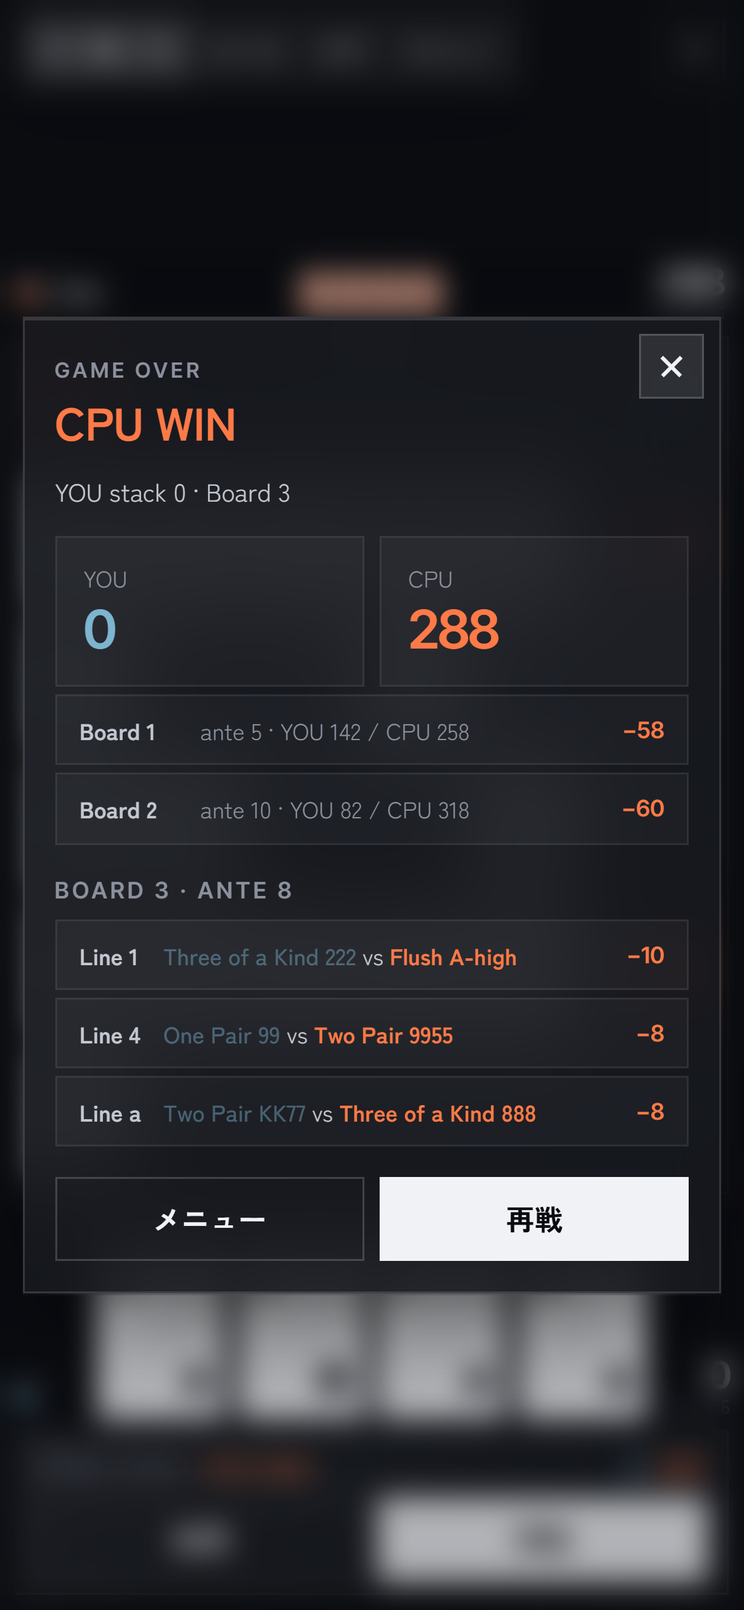
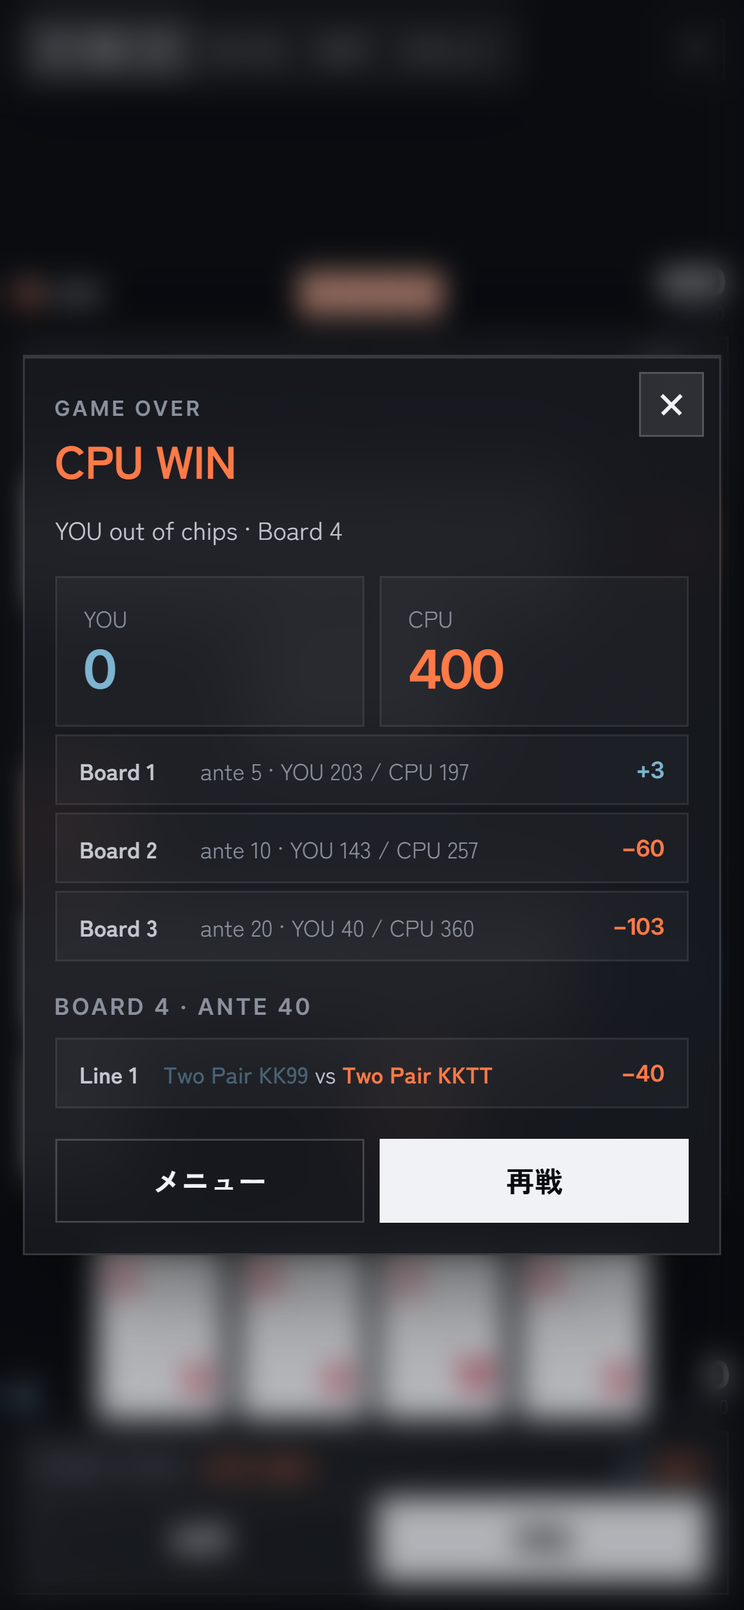
feat(rules): チップ（手元とpot）がすべてなくなったら負け。anteが足りなければLine 1から順に満額ずつ置いてall-in
- 手元が0でもpotにチップがあればall-inとして続く（そのlineはbettingなしでshowdown）。チップが尽きたらその場で終局
- 均等配分（anteを短い方÷10に下げる）は盤面数が長くなりすぎた（中央値4・最長27）ので比較用の anteMode 'even' に
- 仕様書・ルールのモーダル・ガイド09、X画像4枚目とAltテキストを更新

diff --git a/src/engine.js b/src/engine.js
@@ -47,7 +47,7 @@ function shuffle(a){for(let i=a.length-1;i>0;i--){const j=Math.floor(rnd()*(i+1)
 // the 10 lines on the first board, doubled every board; No Limit (all-in up to what the opponent can cover; limit 'pot' =
 // the former Pot Limit, kept for comparisons); NL min raise (at least the ante, or the largest raise so far on that line);
 // the first player is random, then alternates every board.
-const RULES=Object.freeze({stack:200,ante:5,limit:'none',minRaiseMode:'last',first:'random'});
+const RULES=Object.freeze({stack:200,ante:5,anteMode:'fill',limit:'none',minRaiseMode:'last',first:'random'});
 function newGame(cfg){
   const g={cfg:Object.assign({},RULES,cfg),log:[],popups:[],ver:0,over:false,winner:null};
   g.stacks=[g.cfg.stack,g.cfg.stack];g.boardNo=0;g.boards=[];g.handGen=0;
@@ -58,15 +58,21 @@ function newGame(cfg){
 }
 // the ante of board n: the first ante doubled every board, lowered to what the short stack can post on all 10 lines
 const anteFor=(g,n)=>Math.min(g.cfg.ante*2**(n-1),Math.floor(Math.min(...g.stacks)/10));
+// anteMode 'fill' (the rule, 2026-10-03 さつき): a short stack posts the full ante line by line from Line 1 as far as its chips
+// go (all-in, nothing kept back); the other player matches line by line, so lines beyond that start with no pot.
+// anteMode 'even' (comparison): the ante drops to the short stack ÷ 10 on every line, the remainder kept back
 function startBoard(g,first){
-  const n=g.boardNo+1,a=anteFor(g,n);
+  const n=g.boardNo+1,fill=g.cfg.anteMode==='fill',a=fill?g.cfg.ante*2**(n-1):anteFor(g,n);
   g.boardNo=n;g.ante=a;g.minRaise=a; // ミニマムレイズ幅の下限＝その盤面のアンティ
   g.boardStart=[...g.stacks];
   g.deck=shuffle([...Array(52).keys()]);
   g.board=Array(25).fill(null);
   g.hands=[[g.deck.pop(),g.deck.pop(),g.deck.pop(),g.deck.pop()],[g.deck.pop(),g.deck.pop(),g.deck.pop(),g.deck.pop()]];
-  g.contrib=Array.from({length:10},()=>[a,a]);
-  g.stacks=g.stacks.map(s=>s-10*a);
+  if(fill){
+    const per=g.stacks.map(s=>Array.from({length:10},()=>{const x=Math.min(a,s);s-=x;return x}));
+    g.contrib=per[0].map((x,L)=>{const m=Math.min(x,per[1][L]);return[m,m]});
+    const paid=g.contrib.reduce((t,c)=>t+c[0],0);g.stacks=g.stacks.map(v=>v-paid);
+  }else{g.contrib=Array.from({length:10},()=>[a,a]);g.stacks=g.stacks.map(v=>v-10*a)}
   g.done=Array(10).fill(null);
   g.first=first;g.lastDraw=[null,null];g.turn=first;g.phase='place';g.queue=[];g.pendingSd=[];g.betting=null;g.lastCell=null;g.handGen++;g.lastInc=Array(10).fill(0);g.hist=Array.from({length:10},()=>[]);
   addLog(g,`BOARD ${n} · ante ${a}×10 · 先手 {${first}}`,'sys',{0:` · YOU ${g.hands[0].map(cardStr).join('')}`,1:` · YOU ${g.hands[1].map(cardStr).join('')}`});
@@ -77,7 +83,10 @@ function migrate(g){if(g.boardNo===undefined){g.boardNo=1;g.boards=[];g.ante=g.c
 function endBoard(g){
   const n=g.boardNo,net=[0,1].map(p=>g.stacks[p]-g.boardStart[p]);
   g.boards.push({n,ante:g.ante,net,stacks:[...g.stacks]});
-  const next=anteFor(g,n+1);
+  // out of chips (every line is decided, so the stack is all a player has): that player loses (2026-10-03 さつき)
+  const out=[0,1].filter(p=>g.stacks[p]===0);
+  if(out.length)return finish(g,out.length===1?out[0]:null,'chips');
+  const next=g.cfg.anteMode==='fill'?g.cfg.ante*2**n:anteFor(g,n+1);
   if(next<1)return finish(g,g.stacks[0]<g.stacks[1]?0:1,'ante');
   g.popups.push({type:'board',n,ante:g.ante,net,stacks:[...g.stacks],next:{n:n+1,ante:next,first:1-g.first}});
   addLog(g,`BOARD ${n} END · {0} ${g.stacks[0]} / {1} ${g.stacks[1]}`,'sys');
@@ -178,15 +187,16 @@ function showdownLine(g,L){
   const rec0={L,winner:w,pot,names:[handName(r[0].v),handName(r[1].v)],hands:[[...g.hands[0]],[...g.hands[1]]],pairs:[r[0].pair,r[1].pair],board:bc,contrib:[...g.contrib[L]]};
   g.done[L]=rec0;const rec=rec0;revealLine(g,L);
   addLog(g,`${lineName(L)} SD · {0} ${rec.hands[0].map(cardStr).join('')} ${rec.names[0]} / {1} ${rec.hands[1].map(cardStr).join('')} ${rec.names[1]} · ${w===null?`split ${pot}`:`{${w}} wins ${pot}`}`,'sys');
-  g.popups.push({type:'showdown',...rec0});
+  if(pot>0)g.popups.push({type:'showdown',...rec0}); // a line nobody put chips in needs no result window
 }
 function nextCompletion(g){g.queue.shift();g.betting=null;g.ver++;startCompletion(g)}
 function afterCompletions(g){
   const pl=g.pendingSd;g.pendingSd=[];
   for(const L of pl)showdownLine(g,L); // 横→縦の順（完成順）
-  // stack 0 after the lines are decided: the game ends here and that player loses (2026-10-02 さつき)
-  const bust=[0,1].filter(p=>g.stacks[p]===0);
-  if(bust.length)return finish(g,bust.length===1?bust[0]:null,'stack');
+  // a player with stack 0 who still has chips in undecided lines is all-in and plays on (no betting on those lines);
+  // with no chips anywhere, the game ends here (2026-10-03 さつき)
+  const chips=p=>g.stacks[p]+g.contrib.reduce((t,c,L)=>t+(g.done[L]?0:c[p]),0),out=[0,1].filter(p=>chips(p)===0);
+  if(out.length)return finish(g,out.length===1?out[0]:null,'chips');
   if(g.board.every(x=>x!==null))return endBoard(g); // the next board deals new hands
   // 完成した全ラインはフォールドかショーダウンで決着済み。決着したら必ず配り直す
   g.deck.push(...g.hands[0],...g.hands[1]);shuffle(g.deck);
@@ -198,12 +208,12 @@ function endTurn(g){
   if(g.board.every(x=>x!==null))return endBoard(g);
   g.turn=1-g.turn;g.phase='place';g.ver++;
 }
-// bust: the seat that lost (null: both at 0 at once, a draw). reason 'stack' (stack 0 after the lines were decided;
-// undecided lines keep their antes) or 'ante' (cannot post an ante of 1 on every line for the next board)
+// bust: the seat that lost (null: a draw). reason 'chips' (no chips left when a board ends) or 'ante' (fewer than 10 chips:
+// cannot post 1 on every line for the next board)
 function finish(g,bust,reason){
   g.over=true;g.phase='over';g.betting=null;const s=g.stacks;
   g.bust=bust;g.bustReason=reason;g.winner=bust===null?null:1-bust;
-  addLog(g,`GAME OVER${bust!=null?` · {${bust}} ${reason==='ante'?'cannot post the ante':'stack 0'}`:''} · {0} ${s[0]} / {1} ${s[1]} · ${g.winner===null?'DRAW':`{${g.winner}} WIN`}`,'sys');g.ver++;
+  addLog(g,`GAME OVER${bust!=null?` · {${bust}} ${reason==='ante'?'cannot post the ante':'out of chips'}`:''} · {0} ${s[0]} / {1} ${s[1]} · ${g.winner===null?'DRAW':`{${g.winner}} WIN`}`,'sys');g.ver++;
 }
 
 

diff --git a/test/engine.test.js b/test/engine.test.js
@@ -27,16 +27,17 @@ function play(fuzz,i){
   // freezeout: a game only ends when a player is out
   assert.ok(g.bust===0||g.bust===1||g.bust===null,'someone is out');
   if(g.bust!==null)assert.equal(g.winner,1-g.bust);
-  if(g.bustReason==='stack'){
-    // stack 0 after the lines were decided; undecided lines hold only this board's antes
-    if(g.bust!==null)assert.equal(g.stacks[g.bust],0);
-    for(let L=0;L<10;L++)if(!g.done[L])assert.deepEqual(g.contrib[L],[g.ante,g.ante]);
+  // the loser has no chips anywhere (stack and undecided lines); every chip is accounted for
+  let left=g.stacks[0]+g.stacks[1];for(let L=0;L<10;L++)if(!g.done[L])left+=g.contrib[L][0]+g.contrib[L][1];
+  assert.equal(left,total);
+  if(g.bustReason==='chips'){
+    if(g.bust!==null){assert.equal(g.stacks[g.bust],0);for(let L=0;L<10;L++)if(!g.done[L])assert.equal(g.contrib[L][g.bust],0)}
   }else{
     assert.equal(g.bustReason,'ante');assert.ok(g.stacks[g.bust]<10,'cannot post 1 on every line');
     assert.equal(g.stacks[0]+g.stacks[1],total);
   }
-  // boards: the ante doubles (or drops to what the short stack can post), stacks carry over
-  g.boards.forEach((b,i)=>{assert.equal(b.n,i+1);assert.ok(b.ante<=cfg.ante*2**i);if(i)assert.ok(b.ante<=Math.floor(Math.min(...g.boards[i-1].stacks)/10))});
+  // boards: the ante doubles every board (a short stack goes all-in line by line instead of lowering it)
+  g.boards.forEach((b,i)=>{assert.equal(b.n,i+1);assert.equal(b.ante,cfg.ante*2**i)});
   assert.ok(g.log.every(e=>!/\b(YOU|CPU)\b/.test(e.text)),'shared log text names seats only as {0}/{1}');
   return g;
 }
@@ -88,10 +89,37 @@ test('freezeout: a full board carries the stacks over, doubles the ante and swap
   assert.deepEqual(g.stacks,[130,20]);assert.ok(g.contrib.every(c=>c[0]===10&&c[1]===10));
   assert.equal(g.popups.at(-1).type,'board');assert.deepEqual(g.popups.at(-1).next,{n:2,ante:10,first:1});
   assert.ok(g.board.every(x=>x===null));assert.deepEqual(g.hands.map(h=>h.length),[4,4]);assert.equal(g.minRaise,10);
-  // board 3 would be ante 20, but the short stack has 115 → 11 per line
-  g.stacks=[275,115];endBoard(g);assert.equal(g.ante,11);assert.deepEqual(g.stacks,[165,5]);
-  // fewer than 10 chips: the short stack cannot post 1 on every line and loses
-  g.stacks=[391,9];endBoard(g);assert.equal(g.over,true);assert.equal(g.winner,0);assert.equal(g.bust,1);assert.equal(g.bustReason,'ante');
+  // board 3, ante 20: the short stack (115) posts 20 on Line 1–5 and its last 15 on Line 6; Line 7–10 carry no pot
+  g.stacks=[275,115];endBoard(g);assert.equal(g.ante,20);assert.deepEqual(g.stacks,[160,0]);
+  assert.deepEqual(g.contrib.map(c=>c[0]),[20,20,20,20,20,15,0,0,0,0]);assert.ok(g.contrib.every(c=>c[0]===c[1]));
+  // out of chips when a board ends: that player loses
+  g.stacks=[400,0];endBoard(g);assert.equal(g.over,true);assert.equal(g.winner,0);assert.equal(g.bust,1);assert.equal(g.bustReason,'chips');
+});
+
+test('anteMode even (comparison): the ante drops to the short stack ÷ 10; under 10 chips loses',()=>{
+  const g=newGame({first:'you',anteMode:'even'});
+  g.stacks=[230,120];endBoard(g);g.stacks=[275,115];endBoard(g);assert.equal(g.ante,11);assert.deepEqual(g.stacks,[165,5]);
+  g.stacks=[391,9];endBoard(g);assert.equal(g.over,true);assert.equal(g.bust,1);assert.equal(g.bustReason,'ante');
+});
+
+test('stack 0 is all-in, not out: no betting on the line, the game goes on while antes remain in other lines',()=>{
+  const g=newGame({first:'you'});g.stacks=[290,0];
+  for(let i=0;i<5;i++)g.board[i]={card:g.deck.pop(),owner:i%2,rev:true};
+  g.phase='betting';g.queue=[0];g.pendingSd=[];g.betting={line:0,toAct:0,mode:'open',checks:0,raises:0};
+  assert.equal(bettingLegal(g).raise,null,'nothing to bet against an all-in player');
+  doBet(g,0,'check'); // the all-in player checks automatically; showdown
+  assert.ok(g.done[0],'line decided');assert.equal(g.over,false,'still in: antes on the other 9 lines');assert.equal(g.phase,'place');
+});
+
+test('no chips anywhere ends the game at once, even mid-board',()=>{
+  const g=newGame({first:'you'});g.stacks=[390,0];g.contrib=g.contrib.map((c,L)=>L===0?[5,5]:[0,0]); // all-in on Line 1 only
+  for(let i=0;i<5;i++)g.board[i]={card:g.deck.pop(),owner:i%2,rev:true};
+  g.hands[0]=[];g.hands[1]=[]; // fix the showdown: seat 0 holds the nuts against seat 1's junk
+  const k=c=>'23456789TJQKA'.indexOf(c[0])*4+'shdc'.indexOf(c[1]);
+  g.board.slice(0,5).forEach((b,i)=>{b.card=k(['Ah','Kh','Qh','2c','3d'][i])});g.hands=[['Jh','Th','4s','5s'].map(k),['7c','8d','9s','6c'].map(k)];
+  g.phase='betting';g.queue=[0];g.pendingSd=[];g.betting={line:0,toAct:0,mode:'open',checks:0,raises:0};
+  doBet(g,0,'check');
+  assert.equal(g.over,true);assert.equal(g.winner,0);assert.equal(g.bustReason,'chips');assert.ok(g.board.some(x=>x===null),'ended mid-board');
 });
 
 test('a game saved before the freezeout rules continues as board 1',()=>{

diff --git a/src/guide.js b/src/guide.js
@@ -28,7 +28,7 @@ const STEPS=[
   {t:'Showdown',p:'handから必ず2枚、boardから必ず3枚を使ったベスト5で比べ、強い方がpotを取る。同じ強さならsplit。',run:stepShowdown},
   {t:'Redeal',p:'lineが決着する（showdownかfold）たびに、両者のhandを山に戻し、4枚ずつ配り直す。',run:stepRedeal},
   {t:'次の盤面へ',p:'25マス埋まったら、stackを持ち越して次の盤面へ。anteは盤面ごとに2倍（5→10→20…）。',n:'先手・後手は盤面ごとに交代。2本同時に完成したら行→列の順にbetting。',run:stepEnd},
-  {t:'Stack 0で終局',p:'stackが0になったら、そのlineのshowdownが終わった時点で終局。0になった側の負け。',n:'all-inでも、そのlineに勝てばstackが戻るので続く。',run:stepBust},
+  {t:'チップが尽きたら負け',p:'手元が0でも、potにチップが残っていればall-inとして続く。すべてなくなったら負け。',n:'anteが足りなければ、持っている分をLine 1から順に置いてall-in。',run:stepBust},
 ];
 
 let ui=null,cur=0,tok=0,anims=[];
@@ -281,35 +281,21 @@ async function stepEnd(x){
 }
 const B2_0=ks(['Q♠','8♥','5♣','K♦']),B2_1=ks(['3♥','9♠','J♦','6♣']);
 
-// a mid-game stack of 0: OPP (10 left) calls all-in on Line 3, loses the showdown, and the game ends there
-const COL_B=lineCells(6),COL_D=lineCells(8);
+// out of chips: OPP has no stack left (all-in) but still has antes in Line 5 and Line e; both go to showdown without
+// betting, YOU takes them, and with no chips anywhere OPP is out
 async function stepBust(x){
-  const me=best(SD0),op=best(OPH),pots=[...ANTE10];pots[6]=150;pots[8]=150;
-  const done=Array(10).fill(null);done[6]=0;done[8]=0;
-  scene({cells:[...new Set([...PRE4,...COL_B,...COL_D])],rev:[...COL_B,...COL_D],hands:[H1,OPH],pots,done,stacks:[310,10]});
-  await x.wait(800);
-  ui.cells[14].classList.add('target');
-  await place(x,0,2,14);hl([L3]);
-  await Promise.all([flip(x,10,0),flip(x,12,110)]);
-  await draw(x,0,K('3♣'));
-  await x.wait(500);
-  await addStrip(x,chip(0,'bet',10));stack(0,300);await potTo(x,L3,20);
-  await x.wait(900);
-  await addStrip(x,`<span class="g-act"><span class="g-w1">OPP</span><span class="chip-a k-call">CALL</span><b>10</b><span class="pill allin">ALL-IN</span></span>`);
-  await setStack(x,1,0);await potTo(x,L3,30);
-  await x.wait(1100);
-  strip('');setHand(1,OPH,true);
-  await Promise.all([...ui.hands[1].children].map((el,i)=>x.anim(el.firstElementChild,[{transform:'perspective(600px) rotateY(90deg)'},{transform:'none'}],{duration:500,delay:i*110,easing:EASE,fill:'backwards'})));
-  markBest(0,me);await addStrip(x,`<span class="g-act"><span class="g-w0">YOU</span><span class="g-hn">${me.name}</span></span>`);
+  const all=[...Array(25).keys()],pots=[...END_POT].map(v=>v*2),done=END_W.map((w,L)=>L===4||L===9?null:w);pots[4]=20;pots[9]=20;
+  scene({cells:all.filter(i=>i!==24),rev:all,hands:[NEW0,NEW1],pots,done,stacks:[360,0]});
+  strip(`<span class="g-act"><span class="g-w1">OPP</span><b>0</b><span class="pill allin">ALL-IN</span></span><span class="g-line">potに残り 20</span>`);
   await x.wait(1300);
-  clearBest();markBest(1,op);await addStrip(x,`<span class="g-act"><span class="g-w1">OPP</span><span class="g-hn">${op.name}</span></span>`);
-  await x.wait(1300);
-  clearBest();hl([]);
-  strip(`<span class="g-act"><span class="g-w0">YOU</span><span class="g-hn">WIN</span><b>+30</b></span>`);
-  await Promise.all([potTo(x,L3,30,0),setStack(x,0,330)]);
-  await x.wait(900);
-  await pulse(x,ui.stks[1]);
-  strip(`<span class="g-act"><span class="g-hn">GAME OVER</span><span class="g-w1">OPP</span><span class="g-hn">stack 0</span><span class="g-dash">·</span><span class="g-w0">YOU</span><span class="g-hn">WIN</span></span>`);
+  ui.cells[24].classList.add('target');
+  await place(x,0,1,24);
+  hl([4]);strip(`<span class="g-line"><b>Line 5</b>betting なしで showdown</span>`);
+  await x.wait(1100);await Promise.all([potTo(x,4,20,0),setStack(x,0,380)]);
+  hl([9]);strip(`<span class="g-line"><b>Line e</b>betting なしで showdown</span>`);
+  await x.wait(1000);await Promise.all([potTo(x,9,20,0),setStack(x,0,400)]);
+  hl([]);await x.wait(500);
+  strip(`<span class="g-act"><span class="g-hn">GAME OVER</span><span class="g-w1">OPP</span><span class="g-hn">chips 0</span><span class="g-dash">·</span><span class="g-w0">YOU</span><span class="g-hn">WIN</span></span>`);
   await x.anim(ui.strip.firstElementChild,[{opacity:0},{opacity:1}],{duration:260});
   await x.wait(2600);
 }

diff --git a/src/main.js b/src/main.js
@@ -312,7 +312,7 @@ function popupHTML(pp){
     <div class="btns"><button class="btn primary" data-act="ack" type="button">${next}</button></div>`;
 }
 function resultsHTML(){
-  const rows=G.done.map((d,L)=>d).filter(Boolean),boards=G.boards||[];
+  const rows=G.done.map((d,L)=>d).filter(d=>d&&d.pot>0),boards=G.boards||[];
   // earlier boards as one row each, then the lines of the last board
   const past=boards.map(b=>{const v=b.net[ME];return`<li class="brow"><span class="ln">Board ${b.n}</span><span class="hd">ante ${b.ante} · YOU ${b.stacks[ME]} / ${esc(opTag())} ${b.stacks[OP]}</span><span class="amt ${v>0?'up':v<0?'down':'even'}">${v>0?'+':v<0?'−':'±'}${Math.abs(v)}</span></li>`}).join('');
   const cap=boards.length?`<li class="bcap">Board ${G.boardNo} · ante ${G.ante}</li>`:'';
@@ -324,7 +324,7 @@ function resultsHTML(){
 }
 function openOver(){
   const w=G.winner,f=G.forfeit,res=MODE==='pvp'&&G.meta?G.meta.result:null;
-  const why=f?`<p class="sub">${WS(f.p)} ${f.reason==='resign'?'resign':'time-out'}</p>`:G.bust!=null?`<p class="sub">${WS(G.bust)} ${G.bustReason==='ante'?'cannot post the ante':'stack 0'} · Board ${G.boardNo||1}</p>`:'';
+  const why=f?`<p class="sub">${WS(f.p)} ${f.reason==='resign'?'resign':'time-out'}</p>`:G.bust!=null?`<p class="sub">${WS(G.bust)} ${G.bustReason==='ante'?'cannot post the ante':'out of chips'} · Board ${G.boardNo||1}</p>`:'';
   const rd=res?`<div class="rdelta">Rating<b>${res.after[ME]}</b><span class="${res.delta[ME]>0?'up':res.delta[ME]<0?'down':''}">${res.delta[ME]>0?'+':''}${res.delta[ME]}</span></div>`:'';
   $('#overBody').innerHTML=head('GAME OVER',w===null?'DRAW':WS(w)+' WIN',w===null?'e':w===ME?'y':'c')+why+
     `<div class="duel"><div class="y"><span>YOU</span><b>${G.stacks[ME]}</b></div><div class="c"><span>${esc(opName())}</span><b>${G.stacks[OP]}</b></div></div>${rd}${resultsHTML()}

diff --git a/index.html b/index.html
@@ -82,9 +82,9 @@
     </dl>
     <h3 class="r-h">勝敗</h3>
     <dl class="spec">
-      <dt>Stack 0</dt><dd>stackが0になったら、そのlineのshowdownが終わった時点で終局し、0になった側の負け。all-inでも、そのlineに勝てば続く。未完成のlineのanteは精算しない</dd>
+      <dt>チップ切れ</dt><dd>手元とpotの中を合わせてチップが0になったら負け。手元が0でもpotにチップがあれば、all-inとして最後まで続く</dd>
       <dt>25マス</dt><dd>盤面の終わり。stackを持ち越して次の盤面へ（anteは2倍）</dd>
-      <dt>Ante不足</dt><dd>短い方のstackがante×10に足りないときは、払える額（stack÷10）に下げる。1も払えなければ負け</dd>
+      <dt>Ante不足</dt><dd>stackがante×10に足りないときは、持っている分をLine 1から順にante額ずつ置いてall-in。相手もlineごとに同額だけ置き、届かなかったlineはpotなし</dd>
     </dl>
     <h3 class="r-h">VS Player</h3>
     <dl class="spec">

diff --git a/promo/x-4-result.html b/promo/x-4-result.html
@@ -5,6 +5,6 @@
 </div>
 <div class="phones">
   <figure><div class="ph"><img src="shots/4-board.png" alt=""></div><figcaption><b>Board end</b> · ante 5 → 10</figcaption></figure>
-  <figure><div class="ph"><img src="shots/4-over.png" alt=""></div><figcaption><b>Game over</b> · Board 3</figcaption></figure>
+  <figure><div class="ph"><img src="shots/4-over.png" alt=""></div><figcaption><b>Game over</b> · Board 4</figcaption></figure>
 </div></div>
 <div class="spec"><div class="l">VS CPU · screenshots</div><div class="url">gridpoker.pages.dev</div></div></div></body></html>

diff --git a/CLAUDE.md b/CLAUDE.md
@@ -28,11 +28,12 @@
 
 - **フリーズアウト・初期 Stack 200・初回 Ante 5（盤面ごとに 2 倍）・No Limit・Min raise NL・先手／後手ランダム（以後は盤面ごとに交代）**。VS CPU も VS Player も同じで、変更する画面は無い。
 - **フリーズアウト**（2026-10-02 さつき。それまでは 25 マス 1 盤面で stack の多い方の勝ち）: 1 盤面＝25 マス。埋まったら stack を持ち越して次の盤面へ。どちらかが負けるまで盤面を繰り返す。
-  - Ante は盤面ごとに 2 倍（5 → 10 → 20 → 40 …、全 10 line に各額）。短い方の stack が ante × 10 に足りないときは、その盤面の ante を「短い方の stack ÷ 10（端数切り捨て）」に下げる（両者同額）。それが 1 未満なら、短い方の負け。
-  - **終局**: 盤面の途中で stack が 0 になったら、完成したラインがすべて決着した時点（showdown の後）で終了し、0 になった側の負け。未完成のラインの ante は精算しない。
+  - Ante は盤面ごとに 2 倍（5 → 10 → 20 → 40 …、全 10 line に各額）。短い方の stack が ante × 10 に足りないときは、持っている分を Line 1 から順に（Line 1〜5 → a〜e）ante 額ずつ置いて all-in（最後の 1 本は残り全部）。相手も line ごとに同額だけ置くので、届かなかった line は pot なしで始まる（2026-10-03 さつき）。
+  - **負け**（2026-10-03 さつき）: チップ（手元と未決着の pot の合計）が 0 になったとき。手元が 0 でも pot にチップがあれば all-in として最後まで続く（その line は betting なしで showdown）。判定は line が決着するたび（盤面の途中でもチップが尽きればその場で終局）。
+  - Ante 不足の扱いの検証（CPU 同士 450 局、2026-10-03）: 「stack 0 で即負け」は逆転率 2.3%。「短い方の stack ÷ 10 に下げて全 line に均等」は逆転率 17.8% だが、all-in の短い方が 10 本に分散して生き残り、盤面数の中央値 4・最長 27 と長すぎた。「Line 1 から順に満額」は逆転率 12.9%・勝率変動の合計 1.23（即負けは 0.78）・リード交代 1.65、盤面数の中央値 3・最長 7。CPU が常に call する相手に 98%、毎回 all-in する相手に 89% 勝つ。均等配分は engine の `anteMode: 'even'` で比較用に残す。
   - 理由: 25 マスで終わる形式では、リードが「残りラインの ante × 2」を超えると check／fold だけで勝ちが確定し、逆転できない局面が CPU 同士で 53〜59% の対局に生じた（1 盤面では ante をどう配分しても避けられない）。Ante が毎盤面払われ増えていくので、fold で逃げ続けてもリードは必ず削られ、逆転不能の局面がなくなる。
   - 初期 Stack 200・初回 Ante 5（初回 ante 合計＝stack の 25%）の根拠: 比 5〜40% を CPU 同士各 300 局で比較し、勝率変動の合計（excitement）と逆転率が最大で、実力（CPU が常に call する相手に 96% 勝ち）と、毎回 all-in する相手への勝率 17.5% の両方を満たした。平均 2.0 盤面（約 43 手）。約 4 割は 1 盤面目で決着（No Limit の all-in の性質）。
-  - 実装は `src/engine.js` の `startBoard` / `endBoard` / `finish(g, bust, reason)`（`g.bust` に負けた席、`g.bustReason` は 'stack' か 'ante'）。盤面の切り替わりは popup（type 'board'）で知らせる。ルールのモーダル（設定・勝敗の表とガイド 01・08・09）も同じ内容。
+  - 実装は `src/engine.js` の `startBoard` / `endBoard` / `finish(g, bust, reason)`（`g.bust` に負けた席、`g.bustReason` は 'chips'（'ante' は比較用の均等配分のときだけ））。盤面の切り替わりは popup（type 'board'）で知らせる。ルールのモーダル（設定・勝敗の表とガイド 01・08・09）も同じ内容。
 - **No Limit**（2026-10-02 さつき。それまでは Pot Limit）: bet / raise の上限は all-in。ただし相手が cover できる額まで（自分と相手の stack の小さい方＝effective stack）。fold されたら、call されなかった分は bet した側に戻り、pot は突き合わせた額（結果の表示もこの額）。
   - 自己対戦 1,000 局ずつ（2026-10-02）: CPU 同士で途中終局（stack 0）が Pot Limit 21% → No Limit 41%、決着ライン平均 9.0 → 7.8 本。毎回 all-in する相手に CPU は 81% 勝ち、先手の勝率は 47〜51%。破綻はないが短期決着が増える。調整案（未決定）: Stack を増やす、1 ラインの上限を設ける など。
 - Min raise NL＝そのラインでこれまでの最大の raise 幅以上（最低はその盤面の ante 額）。残りがそれ未満なら、その額の all-in は可。

diff --git a/README.md b/README.md
@@ -13,7 +13,7 @@
 - 5 枚目でライン完成。ボードをオープンし、1 ラウンドだけ betting（No Limit。上限は相手が cover できる額までの all-in。fold されたら call されなかった分は戻る）。
 - showdown はハンドから 2 枚＋ボードから 3 枚のベスト 5。
 - 25 マスで 1 盤面。stack を持ち越して次の盤面へ（ante は 2 倍）。
-- stack が 0 になったら、そのラインの決着（showdown）時点で終了し、0 になった側の負け（all-in でもそのラインに勝てば続行。未完成ラインの ante は精算しない）。ante を 1 も払えなくなっても負け。
+- チップ（手元と未決着の pot の合計）が 0 になったら負け。手元が 0 でも pot にチップがあれば all-in として続く。ante が足りなければ、持っている分を Line 1 から順に ante 額ずつ置いて all-in（届かなかった line は pot なし）。
 
 ## 開発
 

diff --git a/promo/alt-text.md b/promo/alt-text.md
@@ -21,5 +21,5 @@ raise画面とshowdown画面。左はall-in 155を選んだraise画面。右はL
 ## 4枚目　x-4-result.png
 
 ```
-盤面の切り替わりと終局の画面。左は盤面1の終了画面で、YOU 142、CPU 258、次の盤面はante 10。右は盤面3でYOUのstackが0になり、CPUが勝った終局画面。
+盤面の切り替わりと終局の画面。左は盤面1の終了画面で、YOU 142、CPU 258、次の盤面はante 10。右は終局画面。盤面ごとにanteが5・10・20・40と倍になり、盤面4でYOUのチップが尽きてCPUが400で勝利。
 ```
